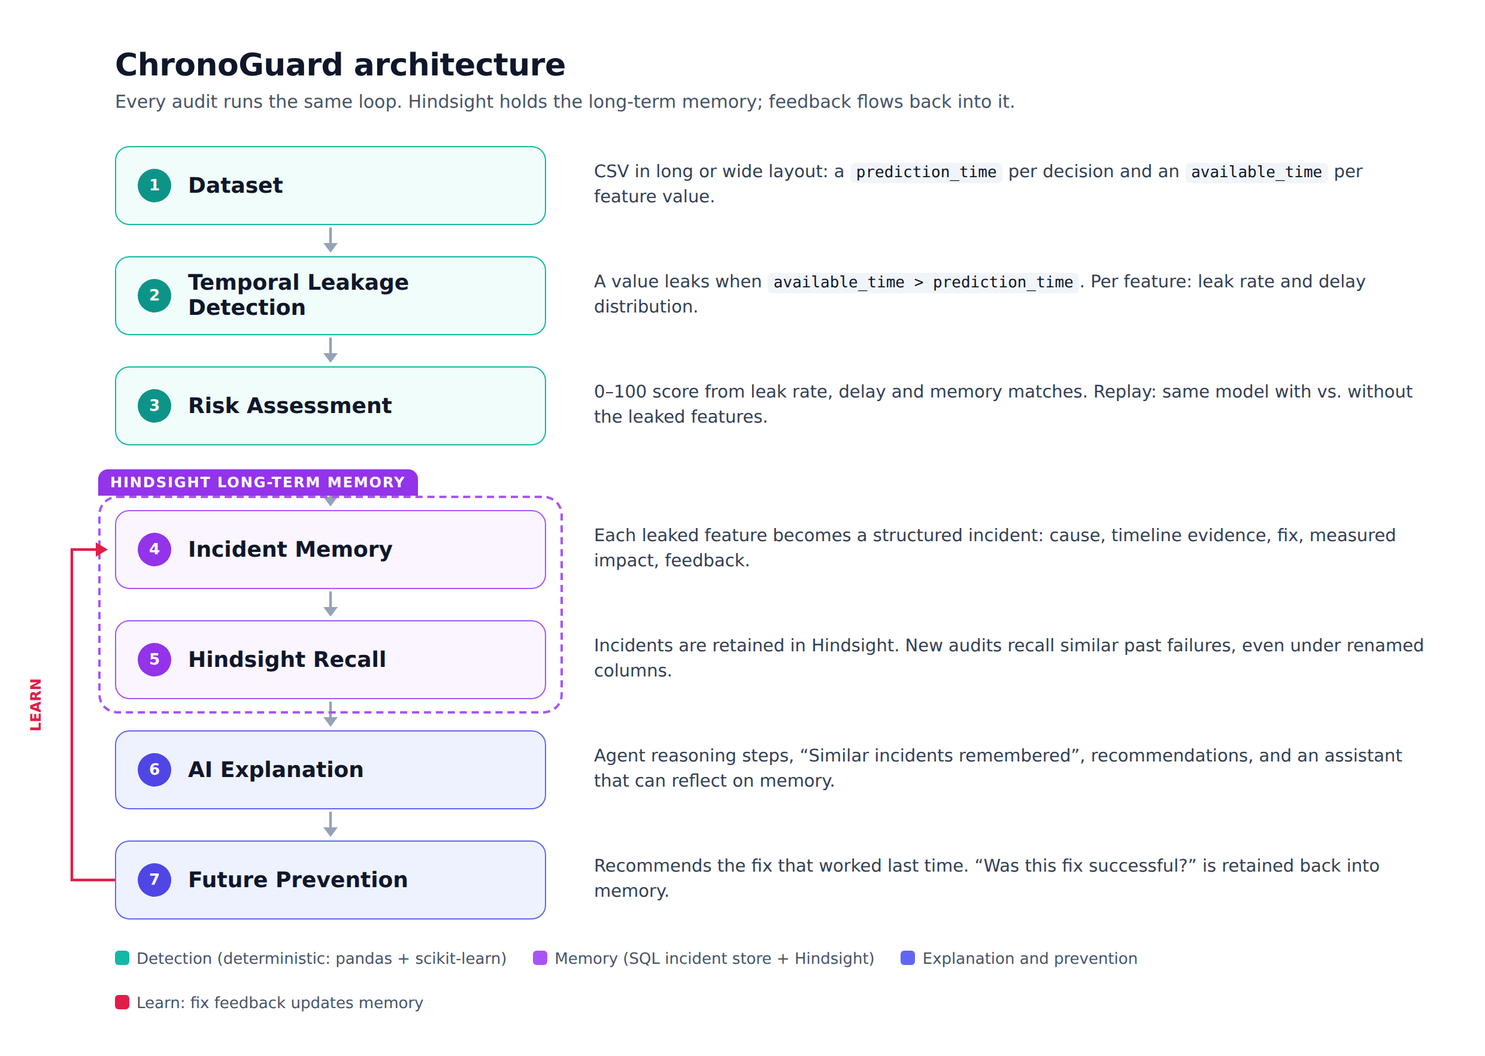
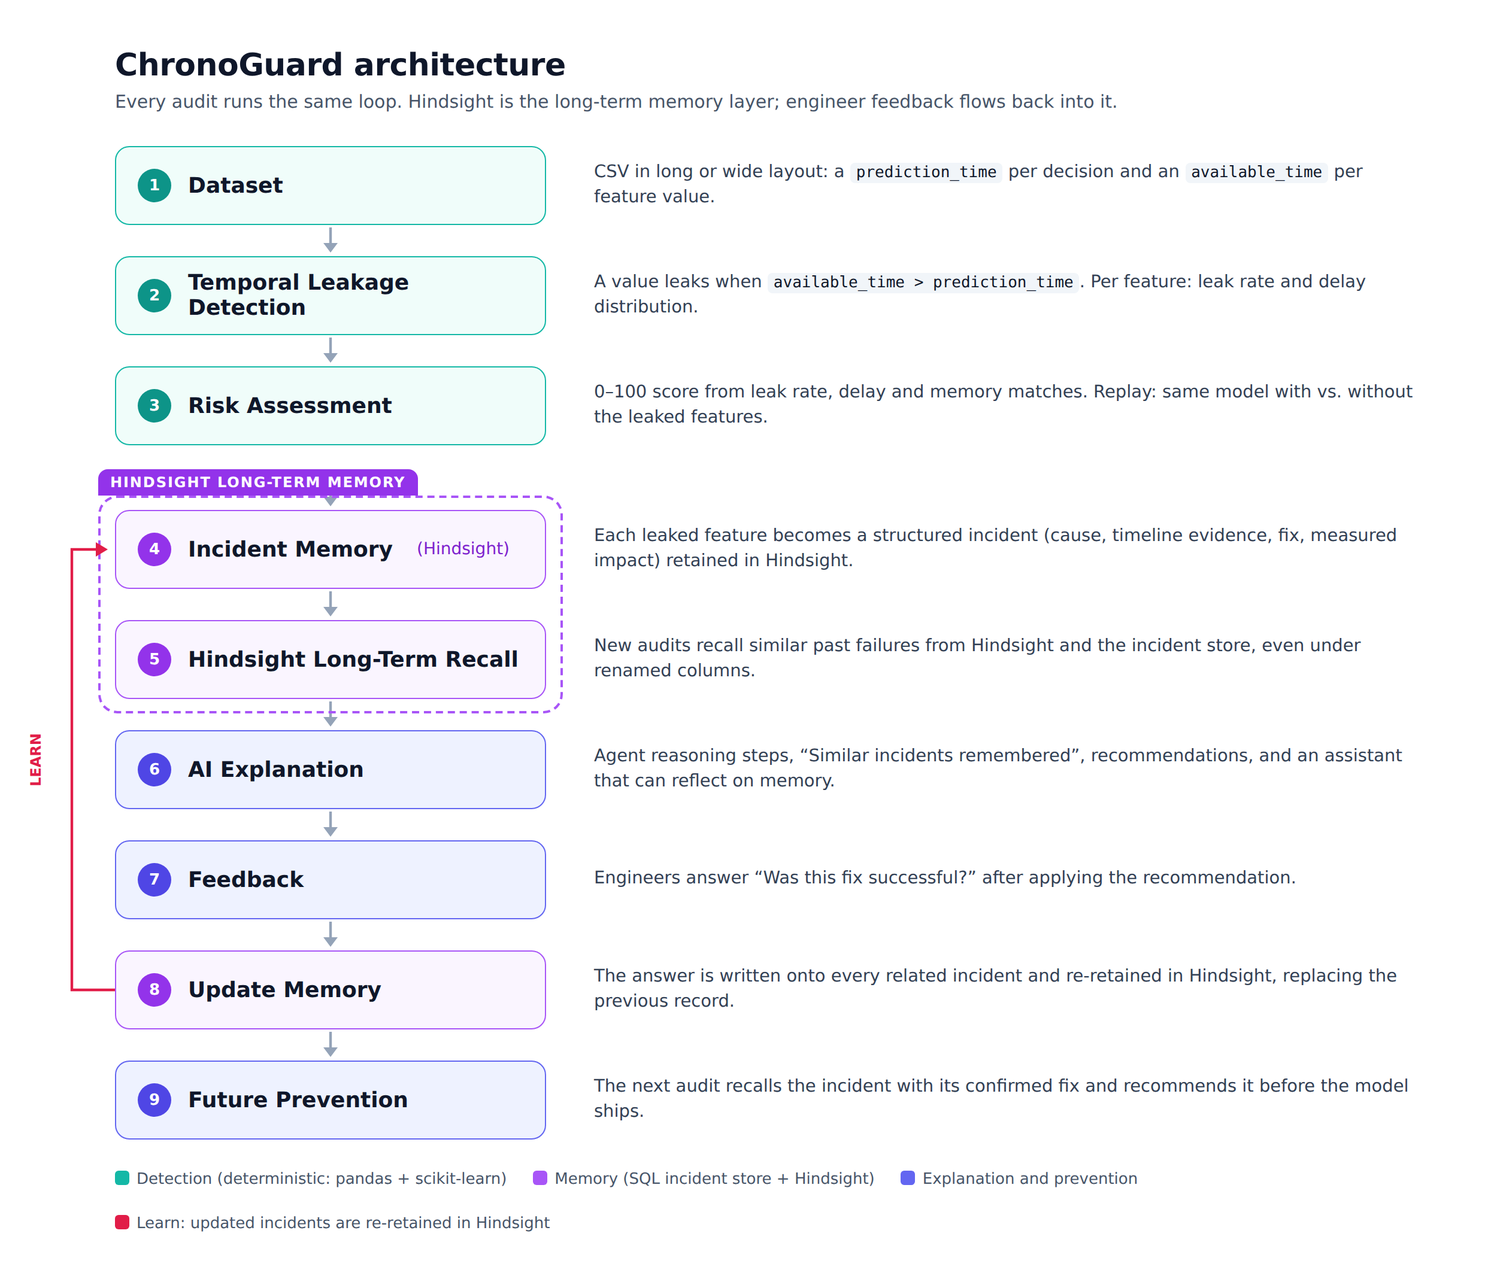
Present Hindsight as ChronoGuard's long-term memory layer
UI labels and documentation only; no backend logic changed.

- Sidebar: "Memory Brain" becomes "Hindsight Memory"; the system card shows
  the memory layer ("Hindsight Long-Term Memory" whenever Hindsight is
  configured, "Local incident memory" otherwise) and its live status dot
- Memory page: "Hindsight Memory Brain" heading and copy; the local vector
  provider is now labelled "Local incident memory"
- Fix recall edges in the memory graph rendering as short stubs: the dashed
  flow style conflicted with the draw-in animation's normalised path length
- README: Hindsight Memory Layer and Memory Advantage sections, updated demo
  flow, production Hindsight status, Hindsight listed as the memory layer
  rather than an optional integration
- Architecture image: Incident Memory (Hindsight), Hindsight Long-Term
  Recall, and a Feedback -> Update Memory -> Future Prevention tail

Claude-Session: https://claude.ai/code/session_01QkiYzU3v5rFw8Bd7VqHdUq

diff --git a/frontend/src/pages/Memory.tsx b/frontend/src/pages/Memory.tsx
@@ -8,7 +8,7 @@ import { MemoryGraphView } from '../components/MemoryGraphView'
 import { EventList } from '../components/EventList'
 import { EmptyState, ErrorState, GlassCard, PageHeader, PageSkeleton, Pill, SectionTitle, Skeleton } from '../components/ui'
 import { useHealth, useHindsightReflect, useHindsightStatus, useIncidents, useMemoryGraph, useMemoryTimeline, useSearch } from '../hooks/useApi'
-import { fmtDate, fmtDuration, fmtInt, fmtPct, hindsightLabel, providerLabel } from '../lib/format'
+import { fmtDate, fmtDuration, fmtInt, fmtPct, hindsightIsMemoryLayer, hindsightLabel, providerLabel } from '../lib/format'
 
 function HindsightCard() {
   const status = useHindsightStatus()
@@ -21,7 +21,7 @@ function HindsightCard() {
       <div className="flex items-start justify-between gap-2">
         <div>
           <h2 className="flex items-center gap-2 text-sm font-semibold text-white">
-            <Cloud className="size-4 text-memory" aria-hidden /> Hindsight long-term memory
+            <Cloud className="size-4 text-memory" aria-hidden /> Hindsight long-term memory layer
           </h2>
           <p className="mt-1 text-xs text-muted">
             Every incident is retained as a structured record (cause, timeline evidence, fix, impact, feedback). Audits recall from
@@ -106,20 +106,27 @@ export function Memory() {
   return (
     <>
       <PageHeader
-        eyebrow="Memory Brain"
+        eyebrow="🧠 Hindsight Memory Brain"
         title={
           <>
             Every ML failure, <span className="text-memory-gradient">remembered.</span>
           </>
         }
-        subtitle="Each leaked feature becomes a structured incident. Incidents that look like the same failure form a pattern; when a new dataset matches a pattern, memory fires before the model ships. Fix feedback flows back into every incident it touched."
-        actions={health.data && <Pill>Vectors: {providerLabel(health.data.embedding_provider)}</Pill>}
+        subtitle="ChronoGuard uses Hindsight as its long-term memory layer. Each leaked feature becomes a structured incident retained in Hindsight; incidents that look like the same failure form a pattern, and when a new dataset matches one, memory fires before the model ships. Fix feedback flows back into every incident it touched."
+        actions={
+          health.data && (
+            <Pill>
+              {providerLabel(health.data.embedding_provider)}
+              {hindsightIsMemoryLayer(health.data.hindsight) && ' + Hindsight long-term memory'}
+            </Pill>
+          )
+        }
       />
 
       <GlassCard className="mb-4">
         <SectionTitle hint="Hover to trace a pattern · click an incident or detection to open it">
           <span className="flex items-center gap-2">
-            <Network className="size-4 text-accent" aria-hidden /> Memory graph
+            <Network className="size-4 text-accent" aria-hidden /> Incident memory graph
           </span>
         </SectionTitle>
         {graph.isLoading && <Skeleton className="h-72" />}
@@ -155,7 +162,7 @@ export function Memory() {
       </div>
 
       <GlassCard>
-        <SectionTitle hint="Try a column name you are about to use">Ask memory about a feature</SectionTitle>
+        <SectionTitle hint="Try a column name you are about to use">Ask Hindsight Memory about a feature</SectionTitle>
         <form onSubmit={submit} className="flex flex-col gap-2 sm:flex-row">
           <label className="sr-only" htmlFor="memory-query">
             Feature name or description

diff --git a/frontend/src/components/Layout.tsx b/frontend/src/components/Layout.tsx
@@ -3,7 +3,7 @@ import { AnimatePresence, motion } from 'framer-motion'
 import { Brain, FileText, FlaskConical, History, LayoutDashboard, Menu, ScanSearch, X } from 'lucide-react'
 import { Suspense, useState } from 'react'
 import { Link, Outlet, useLocation } from 'react-router-dom'
-import { hindsightLabel, providerLabel } from '../lib/format'
+import { hindsightLabel, memoryLayerLabel, providerLabel } from '../lib/format'
 import { useHealth } from '../hooks/useApi'
 import { ChatDrawer } from './ChatDrawer'
 import { Logo } from './Logo'
@@ -12,7 +12,7 @@ import { PageSkeleton } from './ui'
 const NAV = [
   { to: '/', label: 'Command Center', icon: LayoutDashboard },
   { to: '/audits', label: 'Audit Intelligence', icon: ScanSearch },
-  { to: '/memory', label: 'Memory Brain', icon: Brain },
+  { to: '/memory', label: 'Hindsight Memory', icon: Brain },
   { to: '/timeline', label: 'Incident Timeline', icon: History },
   { to: '/replay', label: 'Model Replay', icon: FlaskConical },
   { to: '/reports', label: 'Reports', icon: FileText },
@@ -42,17 +42,24 @@ function SystemStatus() {
         <dl className="space-y-1 text-muted">
           <div className="flex justify-between gap-2">
             <dt>Memory</dt>
-            <dd className="text-slate-300">{providerLabel(data.embedding_provider)}</dd>
+            <dd className="text-right text-slate-300">{memoryLayerLabel(data.hindsight)}</dd>
+          </div>
+          <div className="flex justify-between gap-2">
+            <dt>Status</dt>
+            <dd className="flex items-center gap-1.5 text-right text-slate-300" title={data.hindsight_detail ?? undefined}>
+              <StatusDot
+                ok={data.hindsight === 'connected' ? true : data.hindsight === 'connection_failed' ? false : undefined}
+              />
+              {hindsightLabel(data.hindsight)}
+            </dd>
+          </div>
+          <div className="flex justify-between gap-2">
+            <dt>Incident store</dt>
+            <dd className="text-right text-slate-300">{providerLabel(data.embedding_provider)}</dd>
           </div>
           <div className="flex justify-between gap-2">
             <dt>Explanations</dt>
-            <dd className="text-slate-300">{providerLabel(data.explanation_provider)}</dd>
-          </div>
-          <div className="flex justify-between gap-2">
-            <dt>Hindsight</dt>
-            <dd className="text-right text-slate-300" title={data.hindsight_detail ?? undefined}>
-              {hindsightLabel(data.hindsight)}
-            </dd>
+            <dd className="text-right text-slate-300">{providerLabel(data.explanation_provider)}</dd>
           </div>
         </dl>
       )}

diff --git a/frontend/src/pages/CommandCenter.tsx b/frontend/src/pages/CommandCenter.tsx
@@ -122,7 +122,7 @@ export function CommandCenter() {
         </h1>
         <p className="mt-3 max-w-3xl text-sm text-muted sm:text-base">
           ChronoGuard audits training data for information from the future, measures how much it inflated the model, and retains every
-          incident in long-term memory, so when the same failure returns under a new name, it is recognised before the model ships.
+          incident in Hindsight long-term memory, so when the same failure returns under a new name, it is recognised before the model ships.
         </p>
         <div className="mt-5 flex flex-wrap gap-2">
           <a href="#demo" className="btn btn-primary">
@@ -174,11 +174,11 @@ export function CommandCenter() {
           <SectionTitle
             hint={
               <Link to="/memory" className="inline-flex items-center gap-1 text-accent hover:underline">
-                Memory Brain <ArrowRight className="size-3" aria-hidden />
+                Hindsight Memory <ArrowRight className="size-3" aria-hidden />
               </Link>
             }
           >
-            Neural memory
+            🧠 Hindsight Memory network
           </SectionTitle>
           {graph.data ? <NeuralMemory graph={graph.data} /> : <Skeleton className="h-[340px]" />}
         </GlassCard>

diff --git a/frontend/src/lib/format.ts b/frontend/src/lib/format.ts
@@ -43,10 +43,17 @@ export const fmtBytes = (n: number) =>
 
 export const providerLabel = (p: string) =>
   ({
-    'local-vectors': 'Local vector memory',
+    'local-vectors': 'Local incident memory',
     'azure-openai': 'Azure OpenAI',
     template: 'Evidence template',
   })[p] ?? p
+
+/** Hindsight is the memory layer whenever it is configured; without credentials the local incident store serves alone. */
+export const hindsightIsMemoryLayer = (status: string | undefined) =>
+  status === 'connected' || status === 'configured' || status === 'connection_failed'
+
+export const memoryLayerLabel = (status: string | undefined) =>
+  hindsightIsMemoryLayer(status) ? 'Hindsight Long-Term Memory' : 'Local incident memory'
 
 export const hindsightLabel = (status: string) =>
   ({

diff --git a/frontend/src/components/MemoryGraphView.tsx b/frontend/src/components/MemoryGraphView.tsx
@@ -71,7 +71,6 @@ export function MemoryGraphView({ graph }: { graph: MemoryGraph }) {
               stroke={e.kind === 'recalled_by' ? COLOR.detection : COLOR.incident}
               strokeWidth={e.kind === 'recalled_by' ? 1.6 + (e.similarity ?? 0) : 1}
               strokeOpacity={dim ? 0.08 : e.kind === 'recalled_by' ? 0.75 : 0.4}
-              className={e.kind === 'recalled_by' && !reduce ? 'neural-flow' : ''}
               initial={reduce ? false : { pathLength: 0 }}
               animate={{ pathLength: 1 }}
               transition={{ duration: 0.8, delay: reduce ? 0 : 0.01 * i }}

diff --git a/README.md b/README.md
@@ -10,8 +10,9 @@ did not exist yet when its prediction was made.
 
 - **It detects failures.** It checks every feature value against the moment each prediction was made, scores
   the risk, and replays the model without the leak to measure the real damage.
-- **[Hindsight](https://hindsight.vectorize.io) gives it long-term memory.** Every failure is retained as a
-  structured incident: cause, evidence, fix, impact and engineer feedback.
+- **[Hindsight](https://hindsight.vectorize.io) is its long-term memory layer.** Every reliability incident
+  becomes reusable knowledge that can be recalled when similar failures appear again: cause, evidence, fix,
+  impact and engineer feedback.
 - **It learns from previous incidents.** Before auditing a new dataset it recalls similar past failures, even
   under renamed columns, and recommends the fix that worked last time.
 
@@ -21,45 +22,65 @@ did not exist yet when its prediction was made.
 |---|---|
 | **Live app** | https://chronoguard-ochre.vercel.app/ |
 | **Live API** | https://chronoguard-pt4n.onrender.com/docs (free tier: the first request may take up to a minute while it wakes up) |
+| **Hindsight** | 🟢 Connected: long-term incident memory active (host `api.hindsight.vectorize.io`, bank `chronoguard`) |
 | **Sample datasets** | [`backend/data/samples/`](backend/data/samples) (synthetic, reproducible; also downloadable in the app) |
 
-**Contents:** [Hindsight memory](#-powered-by-hindsight-memory) · [Demo story](#-demo-story) ·
-[Problem](#the-problem) · [Why different](#-why-chronoguard-is-different) ·
+**Contents:** [Hindsight Memory Layer](#-hindsight-memory-layer) · [Demo story](#-demo-story) ·
+[Problem](#the-problem) · [Memory advantage](#-the-memory-advantage) ·
 [Learning loop](#-hindsight-learning-loop) · [Hindsight integration](#-hindsight-integration) ·
 [Screenshots](#-product-screenshots) · [Architecture](#architecture) · [Run locally](#run-locally) · [API](#api)
 
 ---
 
-## 🧠 Powered by Hindsight Memory
+## 🧠 Hindsight Memory Layer
 
-Traditional reliability tools detect failures, but forget them once they are fixed. The knowledge ends up in
-a post-mortem nobody reads, and the next team repeats the mistake.
+ChronoGuard uses Hindsight as its long-term memory layer. Every reliability incident becomes reusable knowledge
+that can be recalled when similar failures appear again.
 
-ChronoGuard uses Hindsight memory to remember:
+ChronoGuard does not forget previous ML failures. Every detected reliability incident is stored as structured
+memory:
 
-- **Previous failures:** which feature leaked, in which dataset and model
-- **Root causes:** how late the value arrived, and why it is post-outcome information
-- **Evidence:** a real decision with its prediction and availability timestamps, and the replay's measured impact
-- **Fixes that worked:** the recommended fix for each incident
-- **Feedback from engineers:** how many times that fix was confirmed or rejected
+- **Failure type:** e.g. temporal leakage
+- **Dataset context:** the dataset and the model it came from
+- **Leaked feature:** the exact column
+- **Evidence timeline:** a real decision with its prediction and availability timestamps
+- **Root cause:** how late the value arrived, and why it is post-outcome information
+- **Recommended fix:** remove the feature, or use its value as known at prediction time
+- **Fix validation feedback:** how many times engineers confirmed or rejected the fix
 
-Future audits recall previous failures instead of starting from zero. Recalled incidents raise the risk score,
-become the recommendation, and carry the team's feedback on whether the fix worked.
+When a new model is audited, Hindsight recalls similar historical failures and helps ChronoGuard recommend
+previously successful fixes.
+
+```text
+Detect Failure
+      ↓
+Store Incident in Hindsight
+      ↓
+Recall Similar Failures
+      ↓
+Explain Risk
+      ↓
+Recommend Proven Fix
+      ↓
+Learn From Feedback
+```
 
 ## 📊 Demo Story
 
+> ## “ChronoGuard has seen this failure before.”
+
 ```text
-Fraud Model v1
-      ↓
+Model V1
+   ↓
 Temporal leakage detected
-      ↓
+   ↓
 Incident stored in Hindsight
-      ↓
-Fraud Model v2 with renamed columns
-      ↓
-Previous failure recalled
-      ↓
-Fix recommendation generated
+   ↓
+Model V2 appears with renamed columns
+   ↓
+Hindsight recalls previous incidents
+   ↓
+ChronoGuard recommends the confirmed solution
 ```
 
 A second team rebuilds the fraud model's feature table and renames every leaky column (`fraud_confirmed` →
@@ -93,12 +114,28 @@ Finding the leak once is not the hard part. **Organisations keep repeating it.**
 different team, or a rebuilt feature table joins the same post-outcome signal again under a new name
 (`fraud_confirmed` becomes `confirmed_fraud_flag`, `cb_resolution_flag` becomes `chargeback_resolution`).
 
-## ⭐ Why ChronoGuard is Different
+## 🧠 The Memory Advantage
+
+Traditional AI reliability tools:
 
 ```text
-Traditional tools:  Detect → Fix → Forget
+Detect → Fix → Forget
+```
 
-ChronoGuard:        Detect → Remember → Recall → Explain → Learn
+ChronoGuard:
+
+```text
+Detect
+  ↓
+Remember with Hindsight
+  ↓
+Recall previous failures
+  ↓
+Explain with evidence
+  ↓
+Recommend proven fixes
+  ↓
+Continuously improve
 ```
 
 | Step | What the agent does |
@@ -168,23 +205,28 @@ How it is wired (`backend/memory/hindsight_adapter.py`, `backend/memory/incident
 |---|---|
 | `retain(bank_id, content, context, document_id, metadata, tags, update_mode="replace")` | Every incident, after each audit, replay and feedback. A stable `document_id` (`chronoguard-incident-<dataset>-<feature>`) means updates replace the memory instead of duplicating it. Metadata: `dataset`, `model`, `feature`, `leak_rate`, fix counts. Tags: `chronoguard`, `temporal-leakage`, `feature:…`, `model:…` |
 | `recall(bank_id, query)` | During each audit that finds leaks, and in memory search, to surface related organisational knowledge |
-| `reflect(bank_id, query)` | Assistant memory questions and the Memory Brain's *Reflect* box, reasoning across all incidents rather than one match at a time |
+| `reflect(bank_id, query)` | Assistant memory questions and the Hindsight Memory Brain's *Reflect* box, reasoning across all incidents rather than one match at a time |
 
 This transforms memory from simple storage into a **reliability learning loop**: the SQL store answers
 “which past feature looks like this one?”, and Hindsight adds organisational memory that can reason across
 every incident, fix and piece of feedback.
 
-**Operational behaviour.** Hindsight is enabled when `CHRONOGUARD_HINDSIGHT_BASE_URL` and
-`CHRONOGUARD_HINDSIGHT_API_KEY` are set (see [Configuration](#configuration-and-security)). Every call is
-bounded by a timeout and fails closed. Without credentials, ChronoGuard runs the same loop on its local
-incident store, and the UI shows the Hindsight status (for example *Disabled*, *Connected* or *Connection
-failed*) instead of pretending. The Hindsight client is exercised in the test suite with a fake client that
-mirrors the real SDK's call signatures.
+**In production.** Hindsight is connected at `api.hindsight.vectorize.io` with the `chronoguard` bank
+(`GET /api/hindsight/status` reports `connected`), configured through `CHRONOGUARD_HINDSIGHT_BASE_URL` and
+`CHRONOGUARD_HINDSIGHT_API_KEY` (see [Configuration](#configuration-and-security)). The sidebar shows the memory
+layer and its live status.
+
+**Resilience.** Every Hindsight call is bounded by a timeout and fails closed: if Hindsight is briefly
+unreachable, audits keep running on the local incident store, the UI shows *Connection failed* instead of
+pretending, and incidents are re-retained on their next update. The Hindsight client is exercised in the test
+suite with a fake client that mirrors the real SDK's call signatures.
 
 ## 📸 Product Screenshots
 
-Captured from a local run of the demo story. This environment had no Hindsight credentials, so the sidebar
-shows Hindsight as *Disabled*; the same screens show *Connected* when it is configured.
+**Production status: Hindsight Connected — Long-term incident memory active.**
+
+The screenshots below were captured from the demo story on a local development instance before its Hindsight
+key was set, so their sidebar status differs from production.
 
 ### Command Center
 
@@ -200,12 +242,12 @@ Shows detection, reasoning steps and recalled incidents: model v2's leaks, the a
 
 ![Audit Intelligence](docs/screenshots/audit-intelligence.png)
 
-### Memory Brain
+### 🧠 Hindsight Memory Brain
 
 Shows how previous failures become reusable knowledge: past incidents group into failure patterns, and new
 detections link back to what was learned from model v1.
 
-![Memory Brain](docs/screenshots/memory-brain.png)
+![Hindsight Memory Brain](docs/screenshots/memory-brain.png)
 
 ### Incident Timeline
 
@@ -220,7 +262,7 @@ one incident's cause, evidence, impact and fix.
 |---|---|
 | **Command Center** | KPIs (models protected, incidents learned, prevented failures, memory confidence), an animated neural view of the memory, and the guided 5-scene demo |
 | **Audit Intelligence** | The agent's recorded reasoning, similar incidents remembered, recommendations, the feedback prompt, and the full evidence (risk gauge, leakage timeline, delay histogram, per-feature evidence, affected decisions) |
-| **Memory Brain** | Memory graph (past incident → failure pattern → new detection), Hindsight status and reflect, memory search, every incident with its fix and fix confidence |
+| **Hindsight Memory Brain** | Memory graph (past incident → failure pattern → new detection), Hindsight status and reflect, memory search, every incident with its fix and fix confidence |
 | **Incident Timeline** | Every incident learned, recall, replay and fix confirmation, with an incident detail panel including the exact record retained in Hindsight |
 | **Model Replay** | Before vs after on a time-ordered split, with the explanation *the previous score was inflated because future information was used* |
 | **Reports** | One-click audit report: executive summary, risk score, evidence, timeline, replay, memory references, recommended fixes. Download as Markdown or print to PDF |
@@ -278,7 +320,7 @@ Backend layout: `api/routers/` (one module per area), `engine/` (parse, detect, 
 | Frontend | React 19, TypeScript, Vite, Tailwind CSS 4, Framer Motion, Recharts, TanStack Query, React Router |
 | Backend | Python 3.11, FastAPI, Pydantic, SQLAlchemy 2 |
 | Analysis | pandas, NumPy, scikit-learn (`HistGradientBoostingClassifier`, hashed text vectors) |
-| Memory | Incident store in SQL with vector search; optional Hindsight (`hindsight-client`); optional Azure OpenAI embeddings |
+| Memory | Hindsight long-term memory (`hindsight-client`) + local incident store in SQL with vector search; optional Azure OpenAI embeddings |
 | Storage | SQLite (default) or PostgreSQL |
 | Quality | pytest, ruff, TypeScript strict build, oxlint |
 
@@ -389,19 +431,20 @@ Single-page-app rewrites are included for Vercel (`vercel.json`), Netlify (`publ
 - The demo has **no authentication**: anyone with the URL can upload and see audits. Do not upload
   confidential data to a public deployment.
 
-**Optional integrations:**
+**Integrations:**
 
-| Integration | Enables | Settings |
+| Integration | Role | Settings |
 |---|---|---|
-| Azure OpenAI | Semantic embeddings for memory; written explanations grounded in measured facts | `CHRONOGUARD_AZURE_OPENAI_*` |
-| Hindsight | Long-term organizational recall alongside the SQL incident store | `CHRONOGUARD_HINDSIGHT_BASE_URL` (e.g. `https://api.hindsight.vectorize.io`) + `CHRONOGUARD_HINDSIGHT_API_KEY` |
-| PostgreSQL | Durable, shared storage | `CHRONOGUARD_DATABASE_URL` + `pip install "psycopg[binary]"` |
+| Hindsight | **Long-term memory layer**: incidents are retained, recalled and reflected on across audits | `CHRONOGUARD_HINDSIGHT_BASE_URL` (`https://api.hindsight.vectorize.io`) + `CHRONOGUARD_HINDSIGHT_API_KEY` (+ `CHRONOGUARD_HINDSIGHT_BANK_ID`, default `chronoguard`) |
+| Azure OpenAI (optional) | Semantic embeddings for the local incident store; written explanations grounded in measured facts | `CHRONOGUARD_AZURE_OPENAI_*` |
+| PostgreSQL (optional) | Durable, shared storage | `CHRONOGUARD_DATABASE_URL` + `pip install "psycopg[binary]"` |
 
 The active providers are shown in the app's sidebar and at `GET /api/health`. For Hindsight, health reports
 `disabled` (not configured), `package_missing`, `configured` (connection not checked yet), `connected` or
 `connection_failed`, with a reason in `hindsight_detail`. The check is a cached background probe (at most once
 a minute, 3 s timeout), so the health endpoint stays fast. Every Hindsight call is bounded by
-`CHRONOGUARD_HINDSIGHT_TIMEOUT_SECONDS` (default 10) and fails closed: audits and local memory keep working.
+`CHRONOGUARD_HINDSIGHT_TIMEOUT_SECONDS` (default 10) and fails closed: audits and the local incident store keep
+working. For local development without a Hindsight key, the same loop runs on the local incident store alone.
 
 ## Dataset format
 
